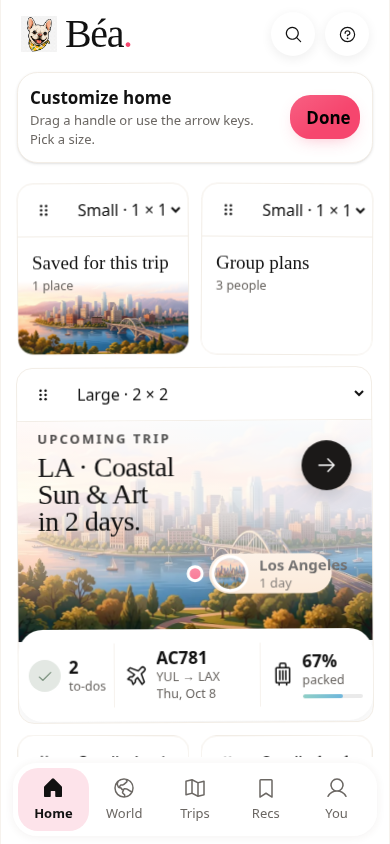
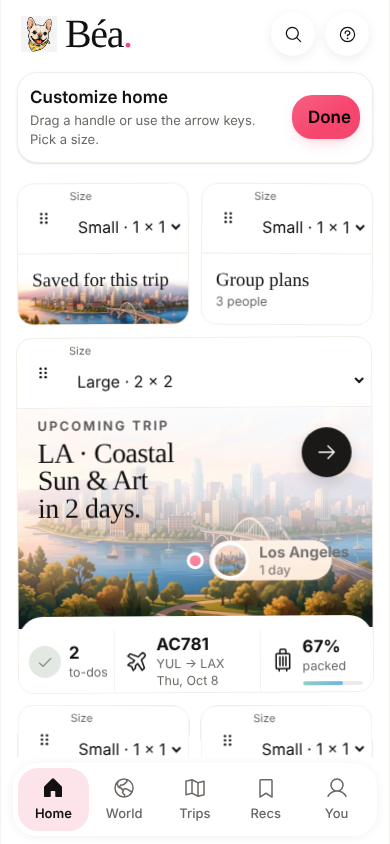
Home widgets: rows follow their content instead of fixed squares
Claude-Session: https://claude.ai/code/session_01Tzmud8M3B7t1yAvPKzHuge

diff --git a/src/styles.css b/src/styles.css
@@ -3441,17 +3441,28 @@ html:not(.dark)
 .home-widget-grid {
   display: grid;
   grid-template-columns: repeat(2, minmax(0, 1fr));
-  grid-auto-rows: calc((100cqw - 12px) / 2);
+  /* Rows follow their content, so a small reading never sits in a big empty box. */
+  grid-auto-rows: auto;
   gap: 12px;
 }
 .home-widget {
   min-width: 0;
   min-height: 0;
 }
+.home-widget[data-size="small"] {
+  min-height: 132px;
+}
+.home-widget[data-size="wide"] {
+  min-height: 96px;
+}
+.home-widget[data-size="large"] {
+  min-height: calc(60cqw);
+}
 .home-widget-inner {
   display: flex;
   flex-direction: column;
   height: 100%;
+  max-height: 100cqw;
   border: 1px solid var(--border);
   border-radius: var(--r-card);
   background: var(--card);

diff --git a/docs/home-widgets/README.md b/docs/home-widgets/README.md
@@ -5,7 +5,7 @@ choose **Arrange widgets**, drag a handle (touch or mouse), or focus a handle an
 use Space, arrow keys, Space. Escape cancels a drag. Choose a module's size and
 tap **Done**. Content links are inactive while arranging.
 
-The two-column grid uses Small (1×1), Wide (2×1), and Large (2×2), with 12px
+The two-column grid uses Small (half width), Wide (full width), and Large (full width, taller). Rows follow their content, so a short module leaves no empty space, with 12px
 gutters and the existing 16px Home inset. Unsupported sizes are omitted from
 that module's picker. Long lists and notes scroll inside their widget. Reduced
 motion from either the operating system or Béa's Reading settings disables the
